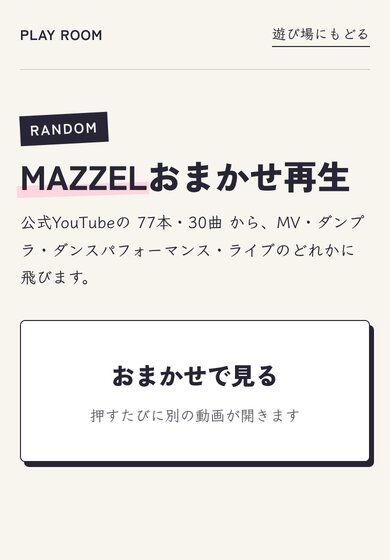
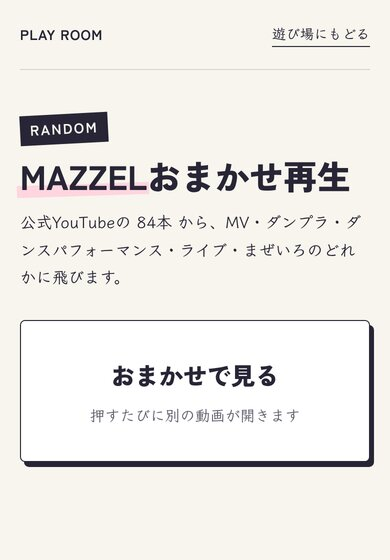
おまかせ再生: まぜいろ（MAZZEL COLOR）7本を追加
Claude-Session: https://claude.ai/code/session_01Tkh1uTptcX9yYh5KQbX8tZ

Changed region(s): [[0.0615, 0.3643, 0.9231, 0.4554], [0.0615, 0.4857, 0.3077, 0.5161]]

diff --git a/mazzel/index.html b/mazzel/index.html
@@ -4,11 +4,11 @@
 <meta charset="utf-8">
 <meta name="viewport" content="width=device-width, initial-scale=1">
 <title>MAZZELおまかせ再生｜PLAY ROOM</title>
-<meta name="description" content="押すたびにMAZZELのMV・ダンプラ・ダンスパフォーマンス・ライブ映像のどれかへ。PLAY ROOMのおまかせ再生。">
+<meta name="description" content="押すたびにMAZZELのMV・ダンプラ・ダンスパフォーマンス・ライブ・まぜいろ映像のどれかへ。PLAY ROOMのおまかせ再生。">
 <meta property="og:type" content="website">
 <meta property="og:site_name" content="PLAY ROOM">
 <meta property="og:title" content="MAZZELおまかせ再生｜PLAY ROOM">
-<meta property="og:description" content="押すたびにMAZZELのMV・ダンプラ・ダンスパフォーマンス・ライブ映像のどれかへ。">
+<meta property="og:description" content="押すたびにMAZZELのMV・ダンプラ・ダンスパフォーマンス・ライブ・まぜいろ映像のどれかへ。">
 <meta property="og:url" content="https://playroom-lab.github.io/play-room/mazzel/">
 <meta name="twitter:card" content="summary">
 <meta name="robots" content="noindex">
@@ -56,15 +56,15 @@ padding:34px 24px;text-align:center;transition:transform .18s ease,box-shadow .1
 <nav class="nav"><span class="brand">PLAY ROOM</span><a class="back" href="../">遊び場にもどる</a></nav>
 <p class="label">RANDOM</p>
 <h1><span>MAZZEL</span>おまかせ再生</h1>
-<p class="note">公式YouTubeの <span id="count"></span> から、MV・ダンプラ・ダンスパフォーマンス・ライブのどれかに飛びます。</p>
+<p class="note">公式YouTubeの <span id="count"></span> から、MV・ダンプラ・ダンスパフォーマンス・ライブ・まぜいろのどれかに飛びます。</p>
 <a class="go" id="go" href="https://www.youtube.com/@MAZZEL_official" target="_blank" rel="noopener">
 <strong>おまかせで見る</strong><small>押すたびに別の動画が開きます</small></a>
 </div>
 <script>
 {
-const V=[["Touch", "DN5JpXHDrLk", "MV", "Music Video"], ["So Strawberry", "76lNhpUKrEc", "MV", "Music Video"], ["Get Up And Dance", "Nw3eh9LurOM", "MV", "Music Video"], ["BANQUET BANG", "KmWhrWESKPU", "MV", "Music Video"], ["Only You", "pVLkSsnde9U", "MV", "Music Video"], ["DANGER", "AUhNm_ZR0L0", "MV", "Music Video"], ["King Kila Game", "jUlAbq1lfdo", "MV", "Music Video"], ["J.O.K.E.R.", "HLTMBZ6bZTA", "MV", "Music Video"], ["MAZQUERADE", "Q5LtRzAYJ_c", "MV", "Music Video"], ["Seaside Story", "rooVEy0Qo-0", "MV", "Music Video"], ["Counterattack", "gmTaYQlWn_I", "MV", "Music Video"], ["ICE feat. REIKO", "MgyCerb44lI", "MV", "Music Video"], ["Parade", "SuLNr2WlOK4", "MV", "Music Video"], ["Waterfall", "ectqcx3hnTI", "MV", "Music Video"], ["Carnival", "lIYPx6fTf8I", "MV", "Music Video"], ["Vivid", "oT_f2l3RScU", "MV", "Music Video"], ["MISSION", "LV2YZetiyHE", "MV", "Music Video"], ["Touch", "jDkc1MzHYG4", "ダンプラ", "Dance Practice"], ["So Strawberry", "s5N3o7KdnxA", "ダンプラ", "Dance Practice"], ["So Strawberry", "hNhGDMnfuR8", "ダンプラ", "Dance Performance Video"], ["The Voice", "IrGzenqeMxo", "ダンプラ", "Dance Performance Video"], ["Get Up And Dance", "ZUyKgkmdqa4", "ダンプラ", "Dance Practice"], ["BANQUET BANG", "lDyaplEIaHQ", "ダンプラ", "Dance Practice"], ["Only You", "dx4XsqUGm10", "ダンプラ", "Dance Practice"], ["Only You", "C8fRi3byOww", "ダンプラ", "Dance Performance"], ["DANGER", "yHhJsqtVGKg", "ダンプラ", "Dance Practice"], ["I'm yours, You're mine", "sFEkSY_dyMY", "ダンプラ", "Performance Video"], ["HERO SUIT", "UMknX5ZBoMM", "ダンプラ", "Performance Video"], ["to me", "6Ysau95qWyI", "ダンプラ", "Performance Video"], ["King Kila Game", "CHUgRqXSFqE", "ダンプラ", "Dance Practice"], ["J.O.K.E.R.", "Q3AzrhpWLZM", "ダンプラ", "Dance Practice"], ["MAZQUERADE", "QQGPnuKOQkE", "ダンプラ", "Dance Practice Moving ver."], ["MAZQUERADE", "icF7arAE9OQ", "ダンプラ", "Dance Practice Fix ver."], ["K&K", "g4UNun1zGyw", "ダンプラ", "Dance Practice"], ["Seaside Story", "S3C5ZedUAo4", "ダンプラ", "Dance Performance"], ["Counterattack", "uXI9uYWq8oc", "ダンプラ", "Dance Practice"], ["ICE feat. REIKO", "j5vpd2Y50No", "ダンプラ", "Dance Performance"], ["Parade", "d-fseqkcFh4", "ダンプラ", "Dance Practice Fix ver."], ["Parade", "Pmyrbbi2108", "ダンプラ", "Dance Practice Moving ver."], ["Waterfall", "YavEcqFbacs", "ダンプラ", "Dance Practice Fix ver."], ["Waterfall", "yR7vMuQwhWE", "ダンプラ", "Dance Practice Moving ver."], ["Fire", "6PAEczbmt2M", "ダンプラ", "Dance Performance Video"], ["Fire", "dlSb062mkVU", "ダンプラ", "Dance Performance Video Fix ver."], ["Carnival", "V8eF9VN2KUU", "ダンプラ", "Dance Practice Moving ver."], ["Carnival", "DIa_urittU8", "ダンプラ", "Dance Practice Fix ver."], ["Carnival", "Yj6LKQwY9ms", "ダンプラ", "Dance Performance"], ["LIGHTNING", "bAhRrmpQFHM", "ダンプラ", "Choreography Video Moving ver."], ["LIGHTNING", "PQeybPFZkXE", "ダンプラ", "Choreography Video Fix ver."], ["LIGHTNING", "8sQXnlMYzI4", "ダンプラ", "Dance Performance Video"], ["Vivid", "WloaFZjKJ7w", "ダンプラ", "Dance Practice Moving ver."], ["Vivid", "eEC0Ru3H8bo", "ダンプラ", "Dance Practice Fix ver."], ["Vivid", "wB0UjJjAp2U", "ダンプラ", "Dance Performance"], ["MISSION", "QtGxrnS5XBU", "ダンプラ", "Dance Practice Moving ver."], ["MISSION", "_VBbdqWF9Gc", "ダンプラ", "Dance Practice Fix ver."], ["So Strawberry", "B0-OaM9fmOs", "ライブ", "1st Arena Tour 2026"], ["Trap", "D-6zWGgatX8", "ライブ", "D.U.N.K. Showcase 2026"], ["J.O.K.E.R.", "Xay_gUI-Quw", "ライブ", "BMSG FES'25"], ["Holiday", "cMsKEJyR-xk", "ライブ", "2nd One Man Tour 2025"], ["Fantasy", "yVmZvKrL00w", "ライブ", "2nd One Man Tour 2025"], ["King Kila Game", "OYWifAyndsE", "ライブ", "2nd One Man Tour 2025"], ["DANGER", "LsG4PZe7fBQ", "ライブ", "2nd One Man Tour 2025"], ["Only You", "Y7pBD-U6-Pc", "ライブ", "Special Live Performance"], ["Vivid", "UYEmJFV0Urc", "ライブ", "VIVA LA ROCK 2025"], ["MISSION", "fNCfV6t8qL8", "ライブ", "One Man Tour 2024"], ["Parade", "eSc2iIH-wVU", "ライブ", "One Man Tour 2024"], ["Get Down", "tO0iiinmrTg", "ライブ", "One Man Tour 2024"], ["K&K", "sFTrDl-a7LQ", "ライブ", "One Man Tour 2024"], ["ICE", "rPCVKK4PpQ0", "ライブ", "One Man Tour 2024"], ["Waterfall", "hldEiAn8Xk4", "ライブ", "One Man Tour 2024"], ["Seaside Story", "0GAKiobewjI", "ライブ", "One Man Tour 2024"], ["Counterattack", "qIZJraMmF3Q", "ライブ", "BMSG FES'24"], ["Fire", "9EOjctmVWYs", "ライブ", "D.U.N.K. Showcase 京セラドーム大阪"], ["Holiday", "9G6h1tK8cuY", "ライブ", "SHOWCASE \"Carnival\""], ["Get Down", "bh4yNRRD6YU", "ライブ", "1st Fan Meeting"], ["CAME TO DANCE", "bGpM_S1KWug", "ライブ", "1st Fan Meeting"], ["Carnival", "XFNqvCJ_FJ8", "ライブ", "BMSG FES'23"], ["Vivid", "bFjEO_otDq8", "ライブ", "DEBUT SHOWCASE \"Vivid\""]];
+const V=[["Touch", "DN5JpXHDrLk", "MV", "Music Video"], ["So Strawberry", "76lNhpUKrEc", "MV", "Music Video"], ["Get Up And Dance", "Nw3eh9LurOM", "MV", "Music Video"], ["BANQUET BANG", "KmWhrWESKPU", "MV", "Music Video"], ["Only You", "pVLkSsnde9U", "MV", "Music Video"], ["DANGER", "AUhNm_ZR0L0", "MV", "Music Video"], ["King Kila Game", "jUlAbq1lfdo", "MV", "Music Video"], ["J.O.K.E.R.", "HLTMBZ6bZTA", "MV", "Music Video"], ["MAZQUERADE", "Q5LtRzAYJ_c", "MV", "Music Video"], ["Seaside Story", "rooVEy0Qo-0", "MV", "Music Video"], ["Counterattack", "gmTaYQlWn_I", "MV", "Music Video"], ["ICE feat. REIKO", "MgyCerb44lI", "MV", "Music Video"], ["Parade", "SuLNr2WlOK4", "MV", "Music Video"], ["Waterfall", "ectqcx3hnTI", "MV", "Music Video"], ["Carnival", "lIYPx6fTf8I", "MV", "Music Video"], ["Vivid", "oT_f2l3RScU", "MV", "Music Video"], ["MISSION", "LV2YZetiyHE", "MV", "Music Video"], ["Touch", "jDkc1MzHYG4", "ダンプラ", "Dance Practice"], ["So Strawberry", "s5N3o7KdnxA", "ダンプラ", "Dance Practice"], ["So Strawberry", "hNhGDMnfuR8", "ダンプラ", "Dance Performance Video"], ["The Voice", "IrGzenqeMxo", "ダンプラ", "Dance Performance Video"], ["Get Up And Dance", "ZUyKgkmdqa4", "ダンプラ", "Dance Practice"], ["BANQUET BANG", "lDyaplEIaHQ", "ダンプラ", "Dance Practice"], ["Only You", "dx4XsqUGm10", "ダンプラ", "Dance Practice"], ["Only You", "C8fRi3byOww", "ダンプラ", "Dance Performance"], ["DANGER", "yHhJsqtVGKg", "ダンプラ", "Dance Practice"], ["I'm yours, You're mine", "sFEkSY_dyMY", "ダンプラ", "Performance Video"], ["HERO SUIT", "UMknX5ZBoMM", "ダンプラ", "Performance Video"], ["to me", "6Ysau95qWyI", "ダンプラ", "Performance Video"], ["King Kila Game", "CHUgRqXSFqE", "ダンプラ", "Dance Practice"], ["J.O.K.E.R.", "Q3AzrhpWLZM", "ダンプラ", "Dance Practice"], ["MAZQUERADE", "QQGPnuKOQkE", "ダンプラ", "Dance Practice Moving ver."], ["MAZQUERADE", "icF7arAE9OQ", "ダンプラ", "Dance Practice Fix ver."], ["K&K", "g4UNun1zGyw", "ダンプラ", "Dance Practice"], ["Seaside Story", "S3C5ZedUAo4", "ダンプラ", "Dance Performance"], ["Counterattack", "uXI9uYWq8oc", "ダンプラ", "Dance Practice"], ["ICE feat. REIKO", "j5vpd2Y50No", "ダンプラ", "Dance Performance"], ["Parade", "d-fseqkcFh4", "ダンプラ", "Dance Practice Fix ver."], ["Parade", "Pmyrbbi2108", "ダンプラ", "Dance Practice Moving ver."], ["Waterfall", "YavEcqFbacs", "ダンプラ", "Dance Practice Fix ver."], ["Waterfall", "yR7vMuQwhWE", "ダンプラ", "Dance Practice Moving ver."], ["Fire", "6PAEczbmt2M", "ダンプラ", "Dance Performance Video"], ["Fire", "dlSb062mkVU", "ダンプラ", "Dance Performance Video Fix ver."], ["Carnival", "V8eF9VN2KUU", "ダンプラ", "Dance Practice Moving ver."], ["Carnival", "DIa_urittU8", "ダンプラ", "Dance Practice Fix ver."], ["Carnival", "Yj6LKQwY9ms", "ダンプラ", "Dance Performance"], ["LIGHTNING", "bAhRrmpQFHM", "ダンプラ", "Choreography Video Moving ver."], ["LIGHTNING", "PQeybPFZkXE", "ダンプラ", "Choreography Video Fix ver."], ["LIGHTNING", "8sQXnlMYzI4", "ダンプラ", "Dance Performance Video"], ["Vivid", "WloaFZjKJ7w", "ダンプラ", "Dance Practice Moving ver."], ["Vivid", "eEC0Ru3H8bo", "ダンプラ", "Dance Practice Fix ver."], ["Vivid", "wB0UjJjAp2U", "ダンプラ", "Dance Performance"], ["MISSION", "QtGxrnS5XBU", "ダンプラ", "Dance Practice Moving ver."], ["MISSION", "_VBbdqWF9Gc", "ダンプラ", "Dance Practice Fix ver."], ["So Strawberry", "B0-OaM9fmOs", "ライブ", "1st Arena Tour 2026"], ["Trap", "D-6zWGgatX8", "ライブ", "D.U.N.K. Showcase 2026"], ["J.O.K.E.R.", "Xay_gUI-Quw", "ライブ", "BMSG FES'25"], ["Holiday", "cMsKEJyR-xk", "ライブ", "2nd One Man Tour 2025"], ["Fantasy", "yVmZvKrL00w", "ライブ", "2nd One Man Tour 2025"], ["King Kila Game", "OYWifAyndsE", "ライブ", "2nd One Man Tour 2025"], ["DANGER", "LsG4PZe7fBQ", "ライブ", "2nd One Man Tour 2025"], ["Only You", "Y7pBD-U6-Pc", "ライブ", "Special Live Performance"], ["Vivid", "UYEmJFV0Urc", "ライブ", "VIVA LA ROCK 2025"], ["MISSION", "fNCfV6t8qL8", "ライブ", "One Man Tour 2024"], ["Parade", "eSc2iIH-wVU", "ライブ", "One Man Tour 2024"], ["Get Down", "tO0iiinmrTg", "ライブ", "One Man Tour 2024"], ["K&K", "sFTrDl-a7LQ", "ライブ", "One Man Tour 2024"], ["ICE", "rPCVKK4PpQ0", "ライブ", "One Man Tour 2024"], ["Waterfall", "hldEiAn8Xk4", "ライブ", "One Man Tour 2024"], ["Seaside Story", "0GAKiobewjI", "ライブ", "One Man Tour 2024"], ["Counterattack", "qIZJraMmF3Q", "ライブ", "BMSG FES'24"], ["Fire", "9EOjctmVWYs", "ライブ", "D.U.N.K. Showcase 京セラドーム大阪"], ["Holiday", "9G6h1tK8cuY", "ライブ", "SHOWCASE \"Carnival\""], ["Get Down", "bh4yNRRD6YU", "ライブ", "1st Fan Meeting"], ["CAME TO DANCE", "bGpM_S1KWug", "ライブ", "1st Fan Meeting"], ["Carnival", "XFNqvCJ_FJ8", "ライブ", "BMSG FES'23"], ["Vivid", "bFjEO_otDq8", "ライブ", "DEBUT SHOWCASE \"Vivid\""], ["Start of Something New (Cover)", "L0SUkz7p3mQ", "まぜいろ", "HAYATO"], ["虹 (Cover)", "BQh7Y6z_r08", "まぜいろ", "EIKI"], ["First Love (Cover)", "jB_Wxgd9p6c", "まぜいろ", "KAIRYU"], ["Fallin", "AKVUTWqNG0c", "まぜいろ", "TAKUTO"], ["SEITO × TSUKKI Collaboration", "aYoS5mxtMfk", "まぜいろ", "SEITO"], ["NAOYA filmed by 蜷川実花", "d3AVCaCZKys", "まぜいろ", "NAOYA"], ["20 years", "SUmOzSGdbCc", "まぜいろ", "RYUKI"]];
 const a=document.getElementById('go');
-document.getElementById('count').textContent=V.length+'本・'+new Set(V.map(v=>v[0])).size+'曲';
+document.getElementById('count').textContent=V.length+'本';
 let last='';
 function pick(){let i;do{i=Math.floor(Math.random()*V.length)}while(V[i][1]===last&&V.length>1);last=V[i][1];a.href='https://www.youtube.com/watch?v='+last}
 pick();

diff --git a/mazzel-random/index.html b/mazzel-random/index.html
@@ -10,7 +10,7 @@
 <meta http-equiv="Cache-Control" content="no-store">
 <title>MAZZELおまかせ再生｜PLAY ROOM</title>
 <script>
-(()=>{const V=[["Touch", "DN5JpXHDrLk", "MV", "Music Video"], ["So Strawberry", "76lNhpUKrEc", "MV", "Music Video"], ["Get Up And Dance", "Nw3eh9LurOM", "MV", "Music Video"], ["BANQUET BANG", "KmWhrWESKPU", "MV", "Music Video"], ["Only You", "pVLkSsnde9U", "MV", "Music Video"], ["DANGER", "AUhNm_ZR0L0", "MV", "Music Video"], ["King Kila Game", "jUlAbq1lfdo", "MV", "Music Video"], ["J.O.K.E.R.", "HLTMBZ6bZTA", "MV", "Music Video"], ["MAZQUERADE", "Q5LtRzAYJ_c", "MV", "Music Video"], ["Seaside Story", "rooVEy0Qo-0", "MV", "Music Video"], ["Counterattack", "gmTaYQlWn_I", "MV", "Music Video"], ["ICE feat. REIKO", "MgyCerb44lI", "MV", "Music Video"], ["Parade", "SuLNr2WlOK4", "MV", "Music Video"], ["Waterfall", "ectqcx3hnTI", "MV", "Music Video"], ["Carnival", "lIYPx6fTf8I", "MV", "Music Video"], ["Vivid", "oT_f2l3RScU", "MV", "Music Video"], ["MISSION", "LV2YZetiyHE", "MV", "Music Video"], ["Touch", "jDkc1MzHYG4", "ダンプラ", "Dance Practice"], ["So Strawberry", "s5N3o7KdnxA", "ダンプラ", "Dance Practice"], ["So Strawberry", "hNhGDMnfuR8", "ダンプラ", "Dance Performance Video"], ["The Voice", "IrGzenqeMxo", "ダンプラ", "Dance Performance Video"], ["Get Up And Dance", "ZUyKgkmdqa4", "ダンプラ", "Dance Practice"], ["BANQUET BANG", "lDyaplEIaHQ", "ダンプラ", "Dance Practice"], ["Only You", "dx4XsqUGm10", "ダンプラ", "Dance Practice"], ["Only You", "C8fRi3byOww", "ダンプラ", "Dance Performance"], ["DANGER", "yHhJsqtVGKg", "ダンプラ", "Dance Practice"], ["I'm yours, You're mine", "sFEkSY_dyMY", "ダンプラ", "Performance Video"], ["HERO SUIT", "UMknX5ZBoMM", "ダンプラ", "Performance Video"], ["to me", "6Ysau95qWyI", "ダンプラ", "Performance Video"], ["King Kila Game", "CHUgRqXSFqE", "ダンプラ", "Dance Practice"], ["J.O.K.E.R.", "Q3AzrhpWLZM", "ダンプラ", "Dance Practice"], ["MAZQUERADE", "QQGPnuKOQkE", "ダンプラ", "Dance Practice Moving ver."], ["MAZQUERADE", "icF7arAE9OQ", "ダンプラ", "Dance Practice Fix ver."], ["K&K", "g4UNun1zGyw", "ダンプラ", "Dance Practice"], ["Seaside Story", "S3C5ZedUAo4", "ダンプラ", "Dance Performance"], ["Counterattack", "uXI9uYWq8oc", "ダンプラ", "Dance Practice"], ["ICE feat. REIKO", "j5vpd2Y50No", "ダンプラ", "Dance Performance"], ["Parade", "d-fseqkcFh4", "ダンプラ", "Dance Practice Fix ver."], ["Parade", "Pmyrbbi2108", "ダンプラ", "Dance Practice Moving ver."], ["Waterfall", "YavEcqFbacs", "ダンプラ", "Dance Practice Fix ver."], ["Waterfall", "yR7vMuQwhWE", "ダンプラ", "Dance Practice Moving ver."], ["Fire", "6PAEczbmt2M", "ダンプラ", "Dance Performance Video"], ["Fire", "dlSb062mkVU", "ダンプラ", "Dance Performance Video Fix ver."], ["Carnival", "V8eF9VN2KUU", "ダンプラ", "Dance Practice Moving ver."], ["Carnival", "DIa_urittU8", "ダンプラ", "Dance Practice Fix ver."], ["Carnival", "Yj6LKQwY9ms", "ダンプラ", "Dance Performance"], ["LIGHTNING", "bAhRrmpQFHM", "ダンプラ", "Choreography Video Moving ver."], ["LIGHTNING", "PQeybPFZkXE", "ダンプラ", "Choreography Video Fix ver."], ["LIGHTNING", "8sQXnlMYzI4", "ダンプラ", "Dance Performance Video"], ["Vivid", "WloaFZjKJ7w", "ダンプラ", "Dance Practice Moving ver."], ["Vivid", "eEC0Ru3H8bo", "ダンプラ", "Dance Practice Fix ver."], ["Vivid", "wB0UjJjAp2U", "ダンプラ", "Dance Performance"], ["MISSION", "QtGxrnS5XBU", "ダンプラ", "Dance Practice Moving ver."], ["MISSION", "_VBbdqWF9Gc", "ダンプラ", "Dance Practice Fix ver."], ["So Strawberry", "B0-OaM9fmOs", "ライブ", "1st Arena Tour 2026"], ["Trap", "D-6zWGgatX8", "ライブ", "D.U.N.K. Showcase 2026"], ["J.O.K.E.R.", "Xay_gUI-Quw", "ライブ", "BMSG FES'25"], ["Holiday", "cMsKEJyR-xk", "ライブ", "2nd One Man Tour 2025"], ["Fantasy", "yVmZvKrL00w", "ライブ", "2nd One Man Tour 2025"], ["King Kila Game", "OYWifAyndsE", "ライブ", "2nd One Man Tour 2025"], ["DANGER", "LsG4PZe7fBQ", "ライブ", "2nd One Man Tour 2025"], ["Only You", "Y7pBD-U6-Pc", "ライブ", "Special Live Performance"], ["Vivid", "UYEmJFV0Urc", "ライブ", "VIVA LA ROCK 2025"], ["MISSION", "fNCfV6t8qL8", "ライブ", "One Man Tour 2024"], ["Parade", "eSc2iIH-wVU", "ライブ", "One Man Tour 2024"], ["Get Down", "tO0iiinmrTg", "ライブ", "One Man Tour 2024"], ["K&K", "sFTrDl-a7LQ", "ライブ", "One Man Tour 2024"], ["ICE", "rPCVKK4PpQ0", "ライブ", "One Man Tour 2024"], ["Waterfall", "hldEiAn8Xk4", "ライブ", "One Man Tour 2024"], ["Seaside Story", "0GAKiobewjI", "ライブ", "One Man Tour 2024"], ["Counterattack", "qIZJraMmF3Q", "ライブ", "BMSG FES'24"], ["Fire", "9EOjctmVWYs", "ライブ", "D.U.N.K. Showcase 京セラドーム大阪"], ["Holiday", "9G6h1tK8cuY", "ライブ", "SHOWCASE \"Carnival\""], ["Get Down", "bh4yNRRD6YU", "ライブ", "1st Fan Meeting"], ["CAME TO DANCE", "bGpM_S1KWug", "ライブ", "1st Fan Meeting"], ["Carnival", "XFNqvCJ_FJ8", "ライブ", "BMSG FES'23"], ["Vivid", "bFjEO_otDq8", "ライブ", "DEBUT SHOWCASE \"Vivid\""]];
+(()=>{const V=[["Touch", "DN5JpXHDrLk", "MV", "Music Video"], ["So Strawberry", "76lNhpUKrEc", "MV", "Music Video"], ["Get Up And Dance", "Nw3eh9LurOM", "MV", "Music Video"], ["BANQUET BANG", "KmWhrWESKPU", "MV", "Music Video"], ["Only You", "pVLkSsnde9U", "MV", "Music Video"], ["DANGER", "AUhNm_ZR0L0", "MV", "Music Video"], ["King Kila Game", "jUlAbq1lfdo", "MV", "Music Video"], ["J.O.K.E.R.", "HLTMBZ6bZTA", "MV", "Music Video"], ["MAZQUERADE", "Q5LtRzAYJ_c", "MV", "Music Video"], ["Seaside Story", "rooVEy0Qo-0", "MV", "Music Video"], ["Counterattack", "gmTaYQlWn_I", "MV", "Music Video"], ["ICE feat. REIKO", "MgyCerb44lI", "MV", "Music Video"], ["Parade", "SuLNr2WlOK4", "MV", "Music Video"], ["Waterfall", "ectqcx3hnTI", "MV", "Music Video"], ["Carnival", "lIYPx6fTf8I", "MV", "Music Video"], ["Vivid", "oT_f2l3RScU", "MV", "Music Video"], ["MISSION", "LV2YZetiyHE", "MV", "Music Video"], ["Touch", "jDkc1MzHYG4", "ダンプラ", "Dance Practice"], ["So Strawberry", "s5N3o7KdnxA", "ダンプラ", "Dance Practice"], ["So Strawberry", "hNhGDMnfuR8", "ダンプラ", "Dance Performance Video"], ["The Voice", "IrGzenqeMxo", "ダンプラ", "Dance Performance Video"], ["Get Up And Dance", "ZUyKgkmdqa4", "ダンプラ", "Dance Practice"], ["BANQUET BANG", "lDyaplEIaHQ", "ダンプラ", "Dance Practice"], ["Only You", "dx4XsqUGm10", "ダンプラ", "Dance Practice"], ["Only You", "C8fRi3byOww", "ダンプラ", "Dance Performance"], ["DANGER", "yHhJsqtVGKg", "ダンプラ", "Dance Practice"], ["I'm yours, You're mine", "sFEkSY_dyMY", "ダンプラ", "Performance Video"], ["HERO SUIT", "UMknX5ZBoMM", "ダンプラ", "Performance Video"], ["to me", "6Ysau95qWyI", "ダンプラ", "Performance Video"], ["King Kila Game", "CHUgRqXSFqE", "ダンプラ", "Dance Practice"], ["J.O.K.E.R.", "Q3AzrhpWLZM", "ダンプラ", "Dance Practice"], ["MAZQUERADE", "QQGPnuKOQkE", "ダンプラ", "Dance Practice Moving ver."], ["MAZQUERADE", "icF7arAE9OQ", "ダンプラ", "Dance Practice Fix ver."], ["K&K", "g4UNun1zGyw", "ダンプラ", "Dance Practice"], ["Seaside Story", "S3C5ZedUAo4", "ダンプラ", "Dance Performance"], ["Counterattack", "uXI9uYWq8oc", "ダンプラ", "Dance Practice"], ["ICE feat. REIKO", "j5vpd2Y50No", "ダンプラ", "Dance Performance"], ["Parade", "d-fseqkcFh4", "ダンプラ", "Dance Practice Fix ver."], ["Parade", "Pmyrbbi2108", "ダンプラ", "Dance Practice Moving ver."], ["Waterfall", "YavEcqFbacs", "ダンプラ", "Dance Practice Fix ver."], ["Waterfall", "yR7vMuQwhWE", "ダンプラ", "Dance Practice Moving ver."], ["Fire", "6PAEczbmt2M", "ダンプラ", "Dance Performance Video"], ["Fire", "dlSb062mkVU", "ダンプラ", "Dance Performance Video Fix ver."], ["Carnival", "V8eF9VN2KUU", "ダンプラ", "Dance Practice Moving ver."], ["Carnival", "DIa_urittU8", "ダンプラ", "Dance Practice Fix ver."], ["Carnival", "Yj6LKQwY9ms", "ダンプラ", "Dance Performance"], ["LIGHTNING", "bAhRrmpQFHM", "ダンプラ", "Choreography Video Moving ver."], ["LIGHTNING", "PQeybPFZkXE", "ダンプラ", "Choreography Video Fix ver."], ["LIGHTNING", "8sQXnlMYzI4", "ダンプラ", "Dance Performance Video"], ["Vivid", "WloaFZjKJ7w", "ダンプラ", "Dance Practice Moving ver."], ["Vivid", "eEC0Ru3H8bo", "ダンプラ", "Dance Practice Fix ver."], ["Vivid", "wB0UjJjAp2U", "ダンプラ", "Dance Performance"], ["MISSION", "QtGxrnS5XBU", "ダンプラ", "Dance Practice Moving ver."], ["MISSION", "_VBbdqWF9Gc", "ダンプラ", "Dance Practice Fix ver."], ["So Strawberry", "B0-OaM9fmOs", "ライブ", "1st Arena Tour 2026"], ["Trap", "D-6zWGgatX8", "ライブ", "D.U.N.K. Showcase 2026"], ["J.O.K.E.R.", "Xay_gUI-Quw", "ライブ", "BMSG FES'25"], ["Holiday", "cMsKEJyR-xk", "ライブ", "2nd One Man Tour 2025"], ["Fantasy", "yVmZvKrL00w", "ライブ", "2nd One Man Tour 2025"], ["King Kila Game", "OYWifAyndsE", "ライブ", "2nd One Man Tour 2025"], ["DANGER", "LsG4PZe7fBQ", "ライブ", "2nd One Man Tour 2025"], ["Only You", "Y7pBD-U6-Pc", "ライブ", "Special Live Performance"], ["Vivid", "UYEmJFV0Urc", "ライブ", "VIVA LA ROCK 2025"], ["MISSION", "fNCfV6t8qL8", "ライブ", "One Man Tour 2024"], ["Parade", "eSc2iIH-wVU", "ライブ", "One Man Tour 2024"], ["Get Down", "tO0iiinmrTg", "ライブ", "One Man Tour 2024"], ["K&K", "sFTrDl-a7LQ", "ライブ", "One Man Tour 2024"], ["ICE", "rPCVKK4PpQ0", "ライブ", "One Man Tour 2024"], ["Waterfall", "hldEiAn8Xk4", "ライブ", "One Man Tour 2024"], ["Seaside Story", "0GAKiobewjI", "ライブ", "One Man Tour 2024"], ["Counterattack", "qIZJraMmF3Q", "ライブ", "BMSG FES'24"], ["Fire", "9EOjctmVWYs", "ライブ", "D.U.N.K. Showcase 京セラドーム大阪"], ["Holiday", "9G6h1tK8cuY", "ライブ", "SHOWCASE \"Carnival\""], ["Get Down", "bh4yNRRD6YU", "ライブ", "1st Fan Meeting"], ["CAME TO DANCE", "bGpM_S1KWug", "ライブ", "1st Fan Meeting"], ["Carnival", "XFNqvCJ_FJ8", "ライブ", "BMSG FES'23"], ["Vivid", "bFjEO_otDq8", "ライブ", "DEBUT SHOWCASE \"Vivid\""], ["Start of Something New (Cover)", "L0SUkz7p3mQ", "まぜいろ", "HAYATO"], ["虹 (Cover)", "BQh7Y6z_r08", "まぜいろ", "EIKI"], ["First Love (Cover)", "jB_Wxgd9p6c", "まぜいろ", "KAIRYU"], ["Fallin", "AKVUTWqNG0c", "まぜいろ", "TAKUTO"], ["SEITO × TSUKKI Collaboration", "aYoS5mxtMfk", "まぜいろ", "SEITO"], ["NAOYA filmed by 蜷川実花", "d3AVCaCZKys", "まぜいろ", "NAOYA"], ["20 years", "SUmOzSGdbCc", "まぜいろ", "RYUKI"]];
 const K='mazzel-random-last';
 function go(){
   let last='';try{last=localStorage.getItem(K)||''}catch(e){}

diff --git a/index.html b/index.html
@@ -259,7 +259,7 @@
           <div class="tool-copy">
             <p class="eyebrow"><span class="number">09</span> RANDOM PLAY</p>
             <h2 id="mazzel-title">MAZZELおまかせ再生</h2>
-            <p class="tool-desc" id="mazzel-desc">押すたびに、MV・ダンプラ・ダンスパフォーマンス・ライブのどれかへ。</p>
+            <p class="tool-desc" id="mazzel-desc">押すたびに、MV・ダンプラ・ダンスパフォーマンス・ライブ・まぜいろのどれかへ。</p>
             <span class="open">おまかせで見る</span>
           </div>
         </a>
